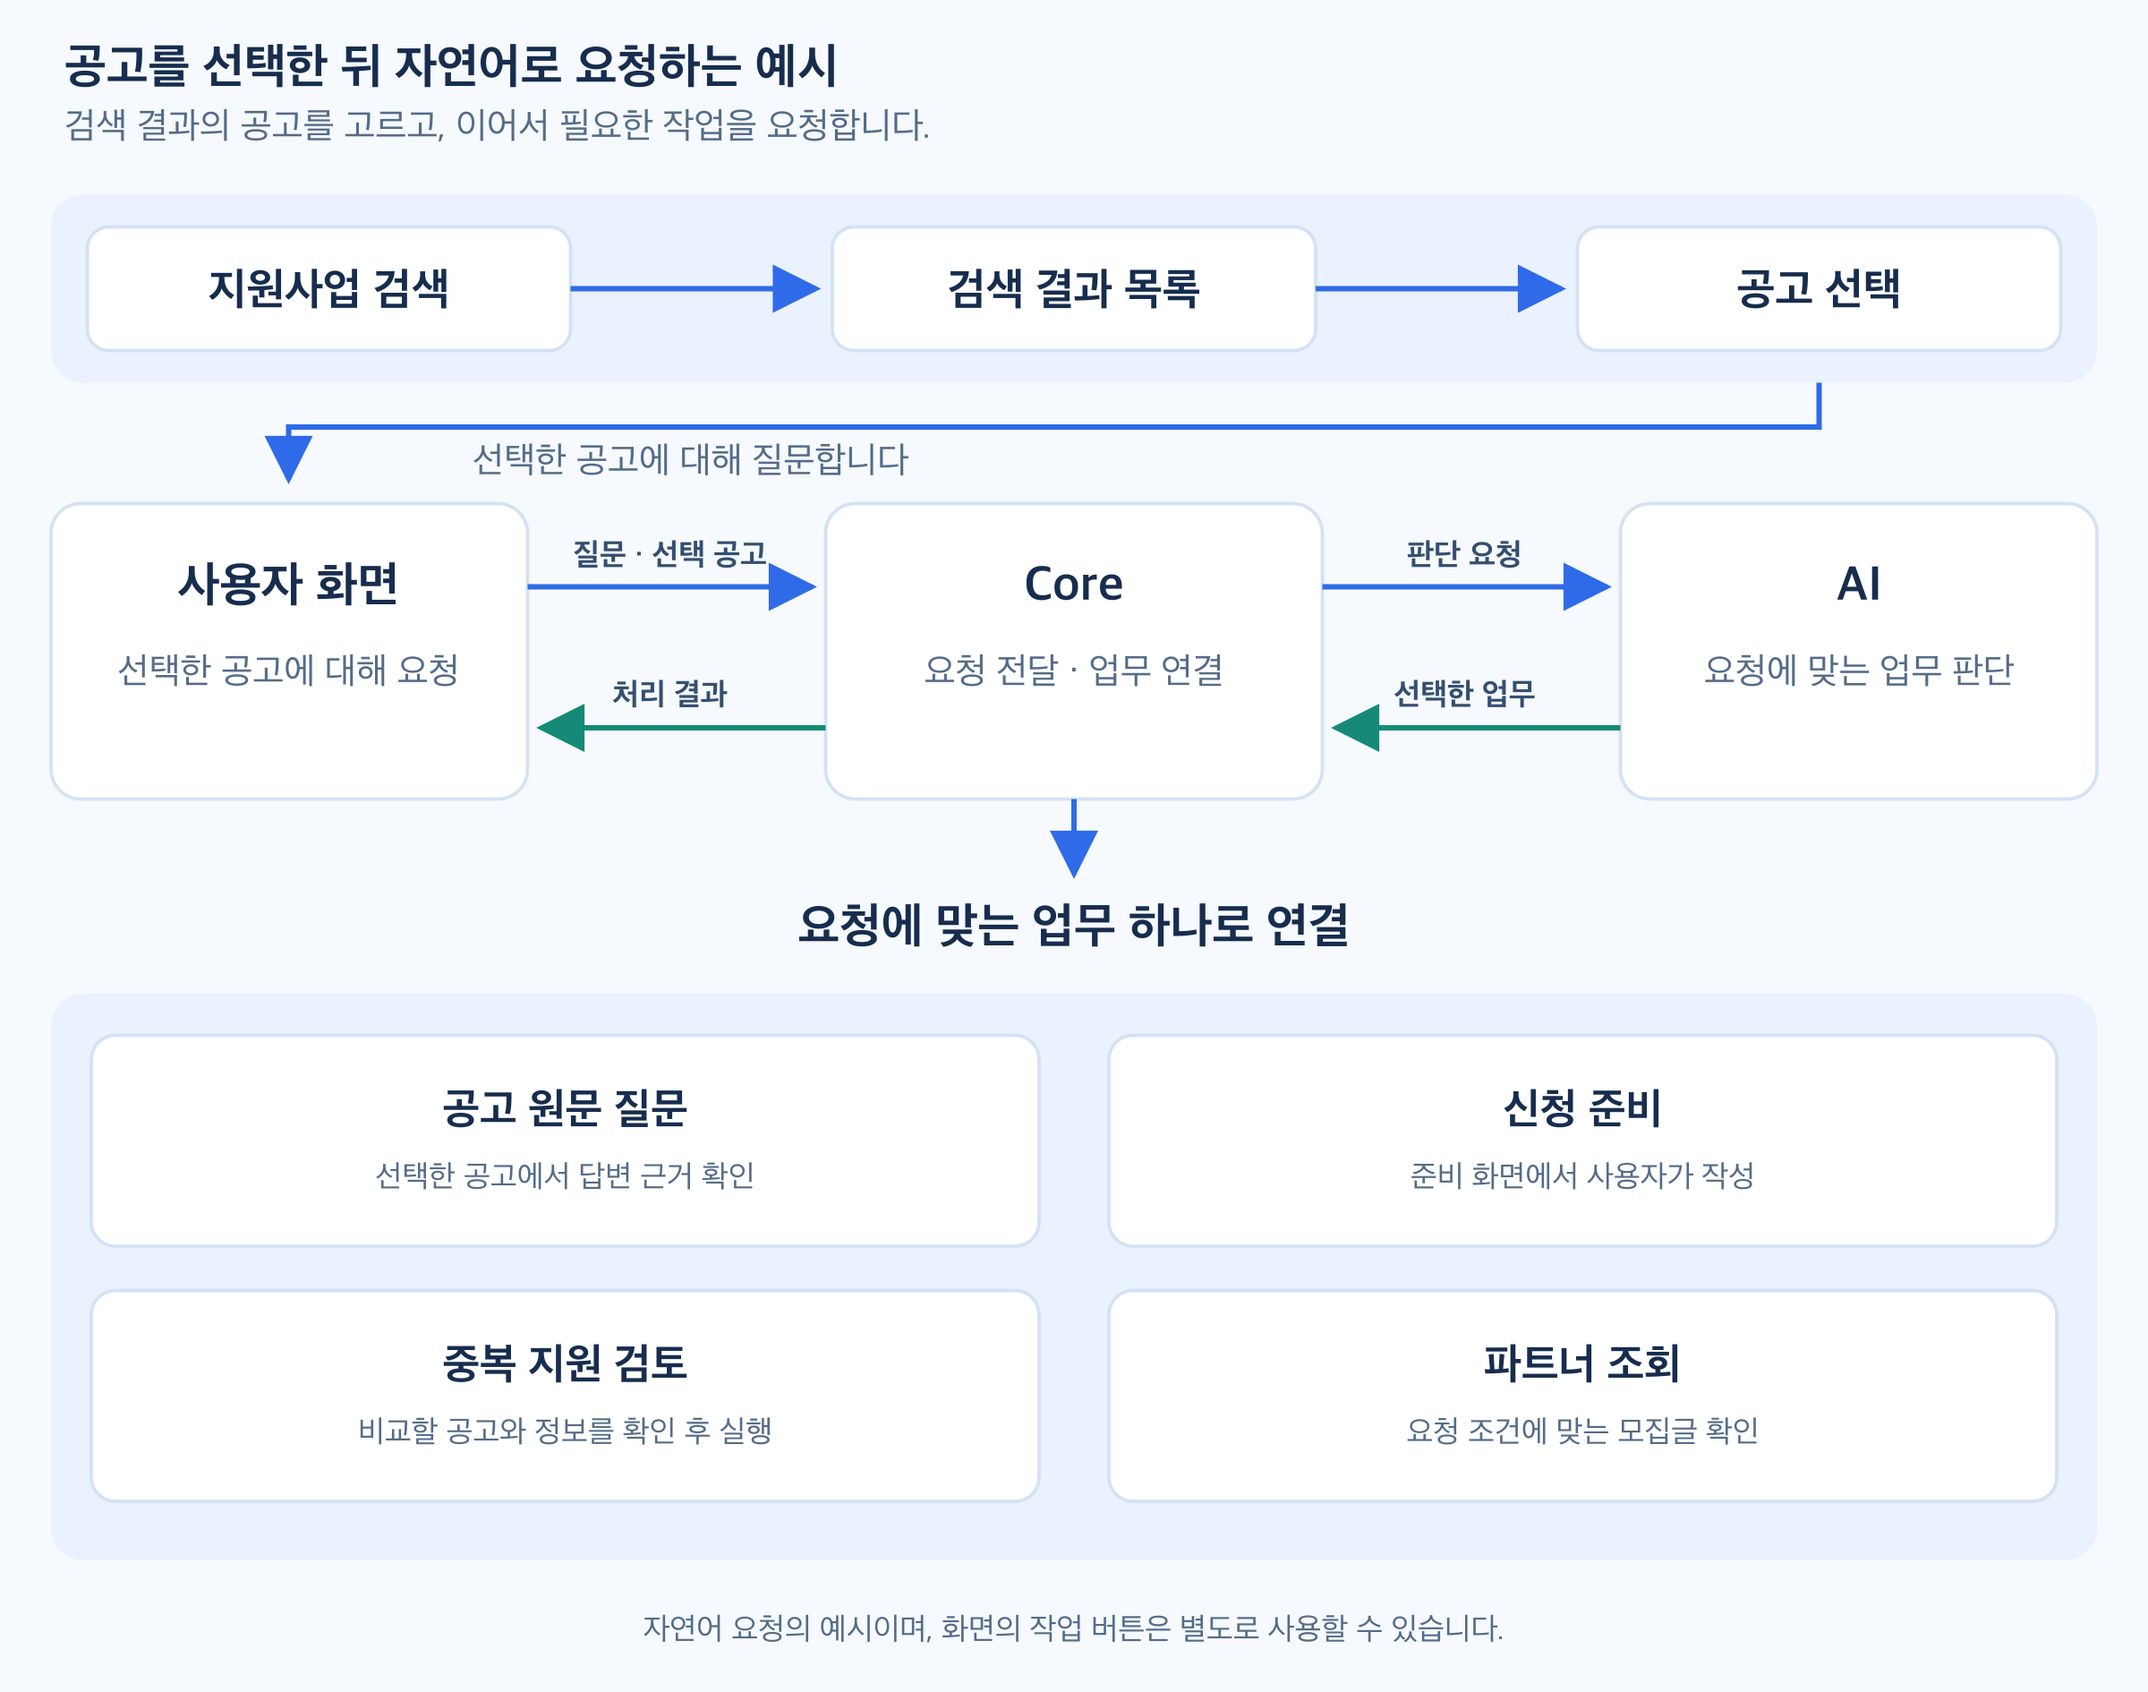
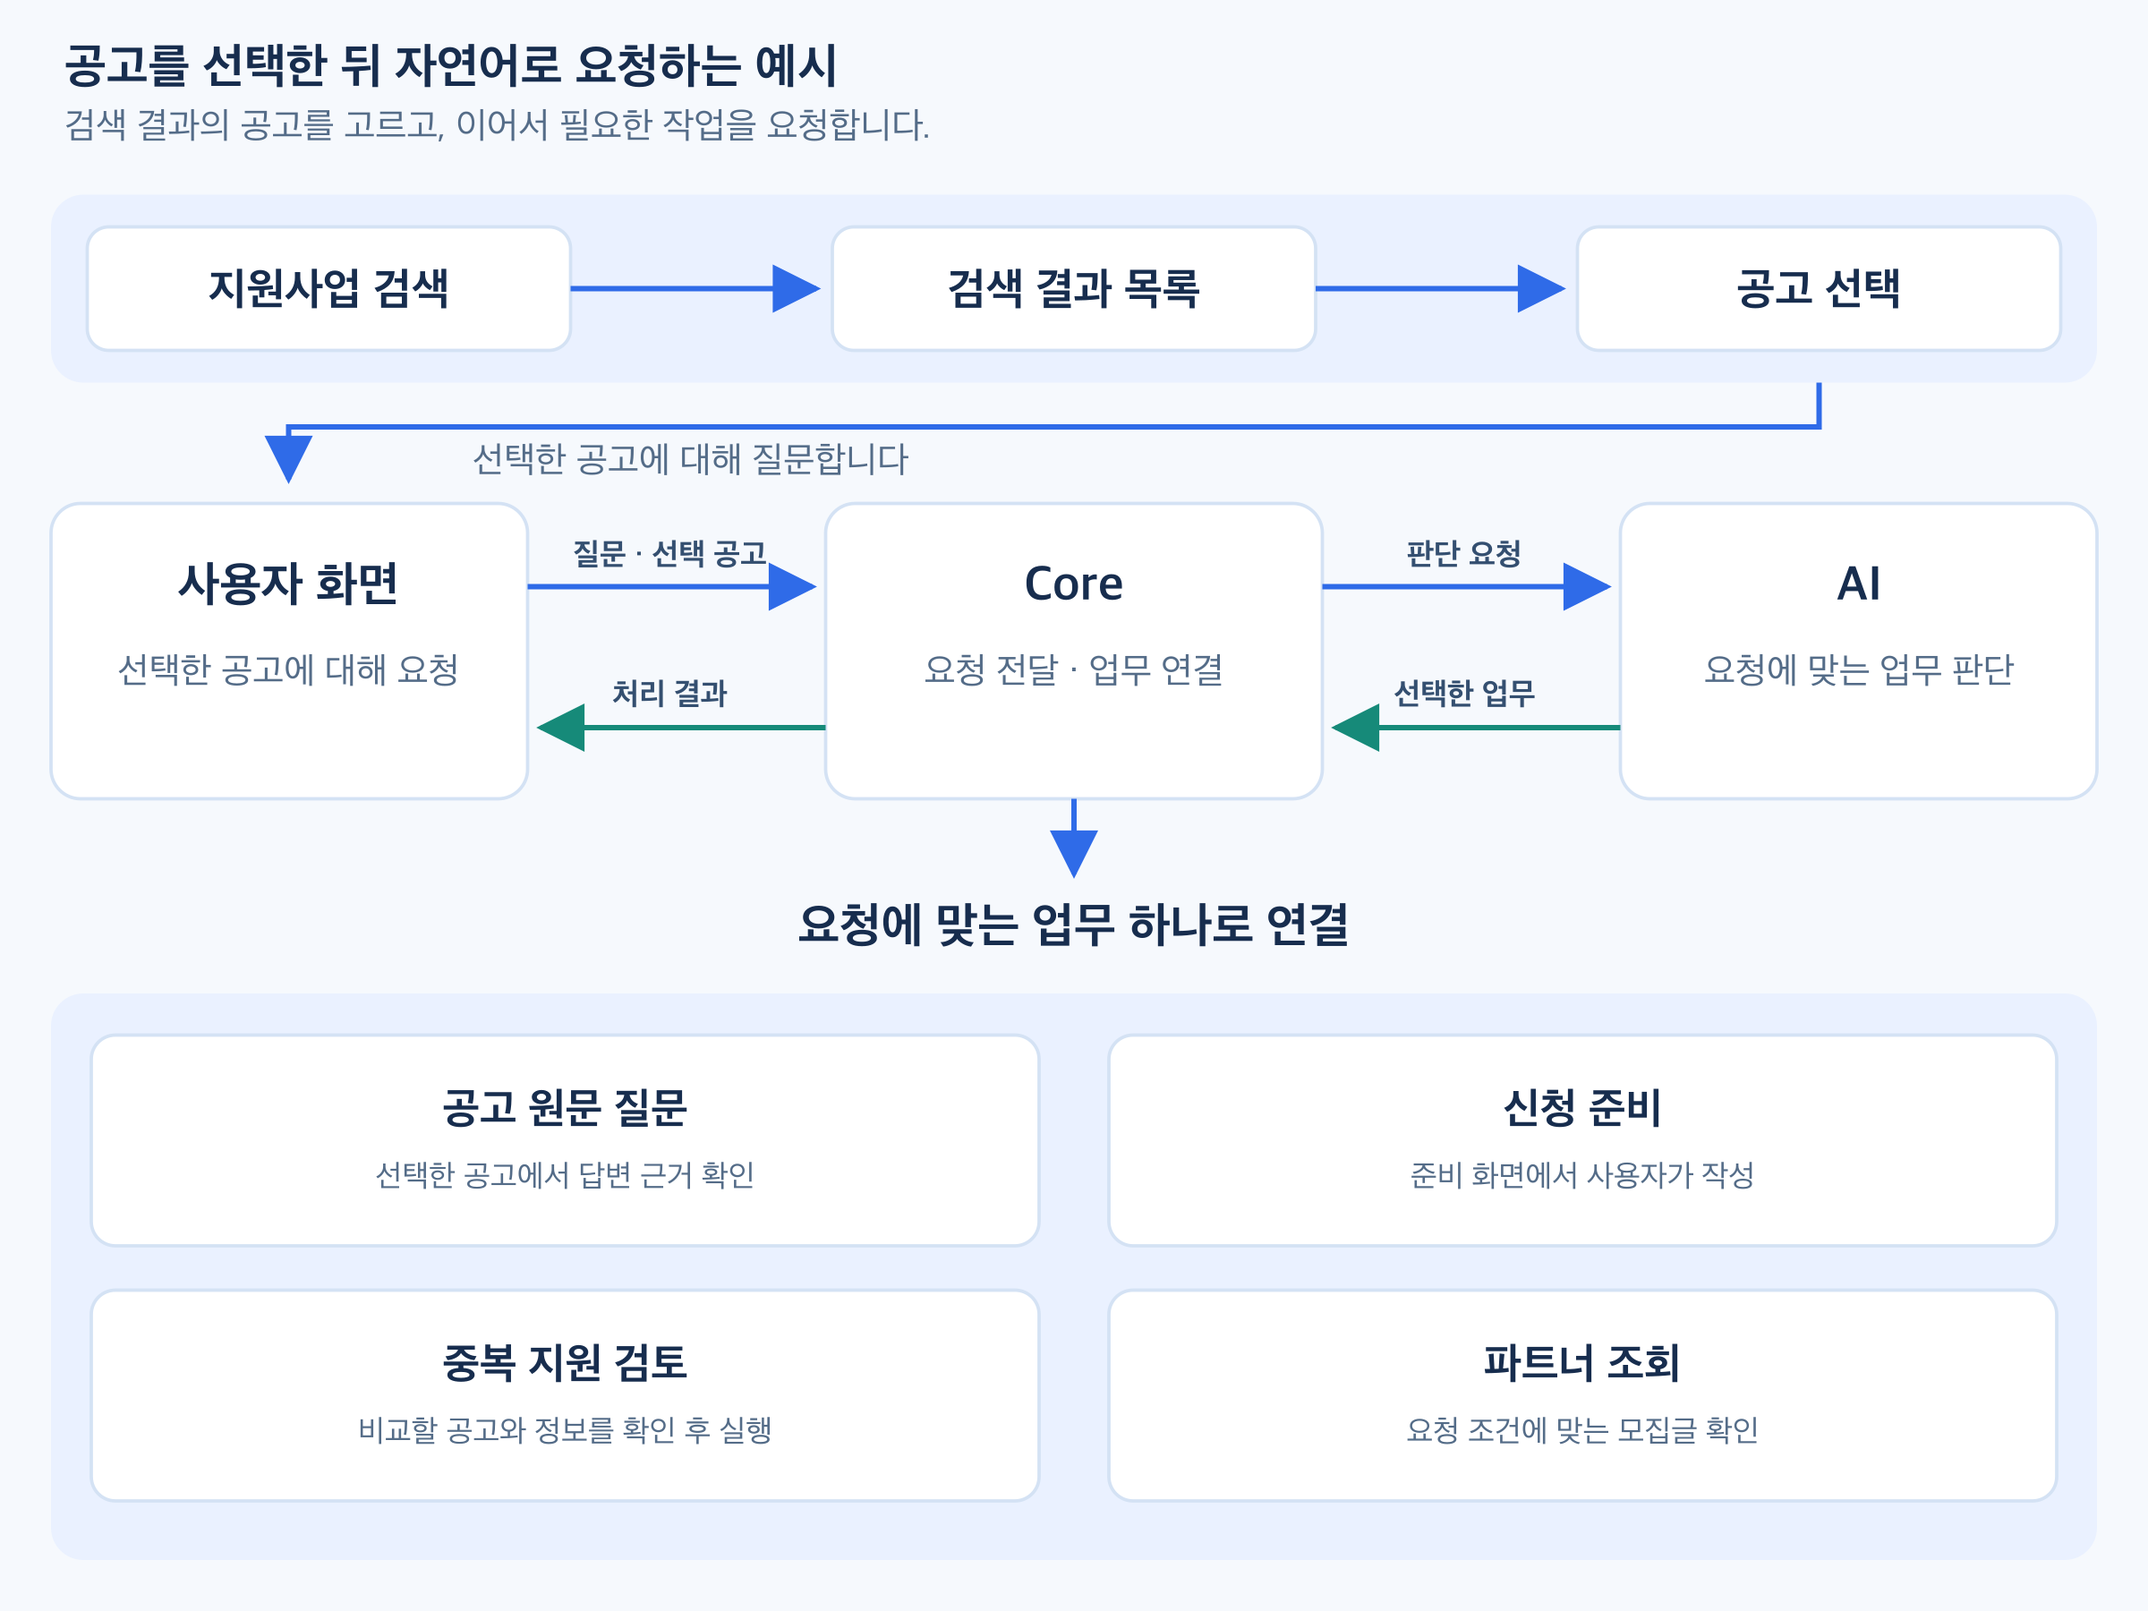
docs: 자연어 요청 흐름도 여백 조정

diff --git a/ai/project/skn34_4th/index.html b/ai/project/skn34_4th/index.html
@@ -186,7 +186,7 @@
 <hr>
 <h2 id="section-10">1. 사용자 의도에 따라 업무를 연결하는 LLM 기반 라우팅 및 Human-in-the-loop</h2>
 <h3 id="section-11">자연어 요청을 기존 업무 기능으로 연결</h3>
-<figure class="diagram"><a class="zoom-image" href="./assets/govbiz-selected-program-flow.png" aria-label="자연어 요청을 기존 업무 기능으로 연결 — 크게 보기"><img src="./assets/govbiz-selected-program-flow.png" alt="자연어 요청을 기존 업무 기능으로 연결" width="2400" height="1890" loading="lazy" decoding="async"></a><figcaption>이미지를 누르면 확대해서 읽을 수 있습니다.</figcaption></figure>
+<figure class="diagram"><a class="zoom-image" href="./assets/govbiz-selected-program-flow.png" aria-label="자연어 요청을 기존 업무 기능으로 연결 — 크게 보기"><img src="./assets/govbiz-selected-program-flow.png" alt="자연어 요청을 기존 업무 기능으로 연결" width="2400" height="1800" loading="lazy" decoding="async"></a><figcaption>이미지를 누르면 확대해서 읽을 수 있습니다.</figcaption></figure>
 <p>“사업을 찾아줘”, “이 공고의 제출 서류가 뭐야?”, “신청서를 준비하고 싶어”를 같은 대화에서 요청할 수 있도록 <b>LLM이 업무를 선택하고 Core가 실행 조건을 검증</b>하게 했습니다.</p>
 
 
